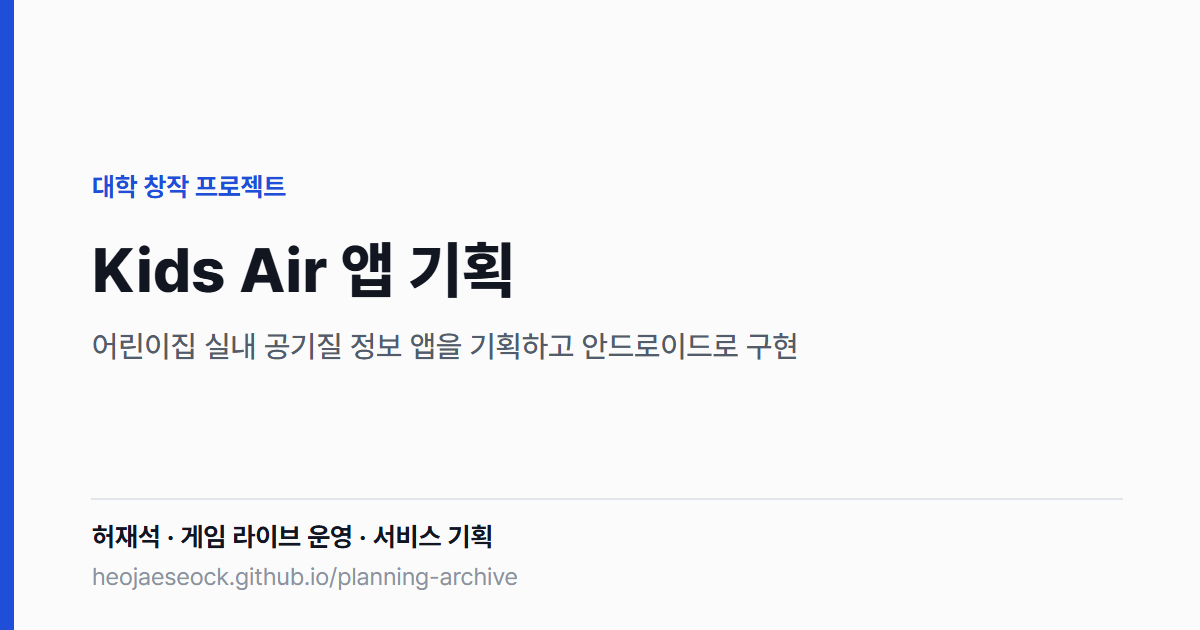
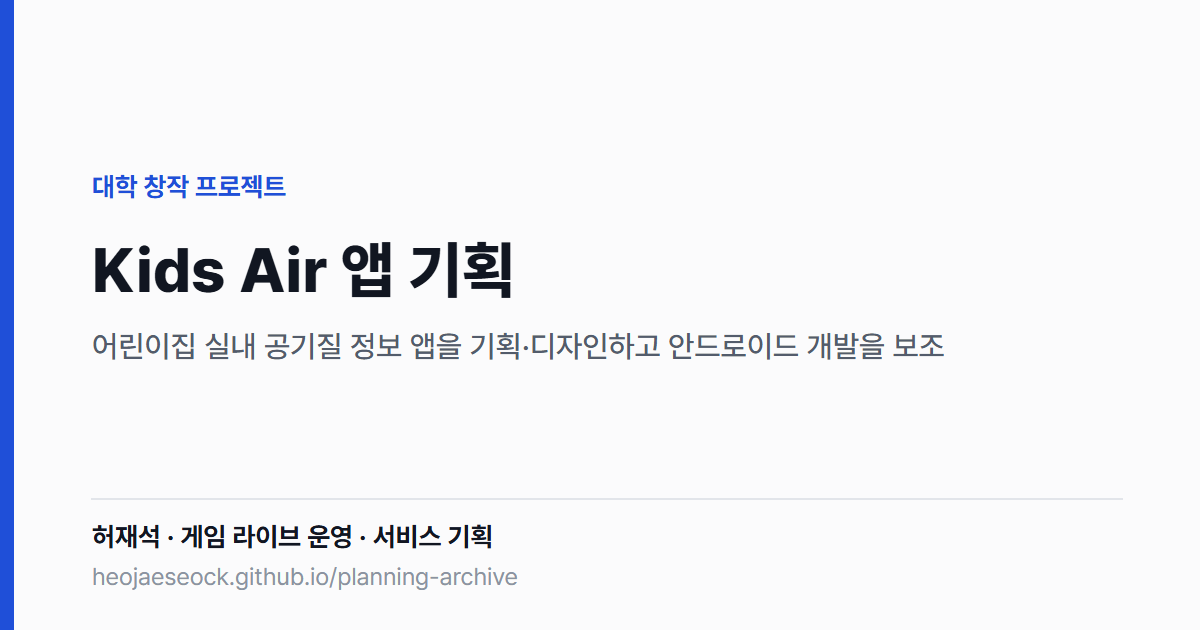
키즈 에어 담당 표기(기획·디자인, 안드로이드 개발 보조)와 공유 이미지, Project OQ 교차점 약 58시간으로 통일, 브롤스타즈 브롤러 수 71종으로 통일

Changed region(s): [[0.4317, 0.5127, 0.8017, 0.573]]

diff --git a/docs/service-plan/kids-air-app-design/index.html b/docs/service-plan/kids-air-app-design/index.html
@@ -8,12 +8,12 @@
 <link rel="icon" href="../../../favicon.svg" type="image/svg+xml">
 <link rel="icon" href="../../../favicon.png" sizes="32x32">
 <link rel="apple-touch-icon" href="../../../apple-touch-icon.png">
-    <meta name="description" content="Kids Air 앱 기획. 어린이집 실내 공기질 정보 앱을 기획하고 안드로이드로 구현.">
+    <meta name="description" content="Kids Air 앱 기획. 어린이집 실내 공기질 정보 앱을 기획·디자인하고 안드로이드 개발을 보조.">
 <meta property="og:type" content="article">
 <meta property="og:locale" content="ko_KR">
 <meta property="og:site_name" content="허재석 기획·운영 아카이브">
 <meta property="og:title" content="Kids Air 앱 기획">
-<meta property="og:description" content="Kids Air 앱 기획. 어린이집 실내 공기질 정보 앱을 기획하고 안드로이드로 구현.">
+<meta property="og:description" content="Kids Air 앱 기획. 어린이집 실내 공기질 정보 앱을 기획·디자인하고 안드로이드 개발을 보조.">
 <link rel="canonical" href="https://heojaeseock.github.io/planning-archive/docs/service-plan/kids-air-app-design/">
 <meta property="og:url" content="https://heojaeseock.github.io/planning-archive/docs/service-plan/kids-air-app-design/">
 <meta property="og:image" content="https://heojaeseock.github.io/planning-archive/docs/service-plan/kids-air-app-design/og.png">
@@ -252,7 +252,7 @@ html { scroll-behavior: smooth; }
                      어린이집의 공기 상태를 보호자가 바로 확인할&nbsp;수 있게 만든 앱입니다.
                 </p>
                 <div class="flex flex-wrap justify-center md:justify-start gap-4 mt-10 text-[11px] font-black text-slate-500">
-                    <span class="bg-white border border-slate-200 px-5 py-2.5 rounded-2xl shadow-sm tracking-wide">담당 역할: 서비스 기획 및&nbsp;디자인</span>
+                    <span class="bg-white border border-slate-200 px-5 py-2.5 rounded-2xl shadow-sm tracking-wide">담당 역할: 서비스 기획&#8288;·디자인, 개발 보조</span>
                     <span class="bg-white border border-slate-200 px-5 py-2.5 rounded-2xl shadow-sm tracking-wide">개발 환경: 안드로이드 네이티브</span>
                 </div>
             </div>
@@ -264,7 +264,7 @@ html { scroll-behavior: smooth; }
       <div class="bg-white rounded-2xl border border-slate-200 overflow-hidden shadow-sm">
         <div class="px-6 md:px-9 pt-7 md:pt-8 pb-6">
           <p class="text-[11px] font-black tracking-[0.12em] text-teal-700 mb-3">문서 소개</p>
-          <p class="text-base md:text-lg font-bold text-slate-700 leading-relaxed bal max-w-[40em]">어린이집 실내 공기질 정보 앱을 기획하고 안드로이드로 구현한 기록입니다.</p>
+          <p class="text-base md:text-lg font-bold text-slate-700 leading-relaxed bal max-w-[40em]">어린이집 실내 공기질 정보 앱을 기획&#8288;·디자인하고, 안드로이드 개발을 보조하며 출시까지 함께한 기록입니다.</p>
         </div>
         <div class="px-6 md:px-9 py-6 md:py-7">
           <p class="text-[11px] font-black tracking-[0.12em] text-slate-500 mb-4">먼저 확인할&nbsp;점</p>

diff --git a/index.html b/index.html
@@ -474,9 +474,9 @@
         <div class="tags"><span class="tag t-pm">사업&#8288;·서비스 기획</span></div>
       </a>
       <div class="ghead" data-cat="campus"><h2>대학 창작 프로젝트 <span class="cat-n" data-total="3">3건</span></h2><p>대학 재학&nbsp;중 직접 기획하고 만들어 완성한 앱과 보드게임입니다.</p></div>
-      <a class="card" data-cat="campus" data-jobs="pm" data-q="Kids Air 앱 기획 어린이집 실내 공기질 정보 앱을 기획하고 안드로이드로 구현" href="docs/service-plan/kids-air-app-design/index.html">
+      <a class="card" data-cat="campus" data-jobs="pm" data-q="Kids Air 앱 기획 어린이집 실내 공기질 정보 앱을 기획·디자인하고 안드로이드 개발을 보조" href="docs/service-plan/kids-air-app-design/index.html">
         <h3>Kids Air 앱 기획</h3>
-        <p>어린이집 실내 공기질 정보 앱을 기획하고 안드로이드로 구현</p>
+        <p>어린이집 실내 공기질 정보 앱을 기획·디자인하고 안드로이드 개발을 보조</p>
         <div class="tags"><span class="tag t-pm">사업&#8288;·서비스 기획</span></div>
       </a>
       <a class="card" data-cat="campus" data-jobs="gd,pm" data-q="Color Killer 보드게임 기획·제작 특수 카드 4종으로 역전 요소를 만든 창작 보드게임" href="docs/game-design/color-killer-boardgame/index.html">

diff --git a/docs/game-design/brawlstars-system-analysis/index.html b/docs/game-design/brawlstars-system-analysis/index.html
@@ -384,7 +384,7 @@ html { scroll-behavior: smooth; }
                 <div class="text-center max-w-2xl mx-auto mb-10">
                     <h2 class="text-2xl md:text-3xl font-black text-slate-900 mb-3 tracking-tight">브롤러 육성 및&nbsp;밸런스 체계 구조화</h2>
                     <p class="text-slate-500 text-base font-medium leading-relaxed">
-                    70종을 넘는 브롤러의 클래스 체계와 점진적 스펙업 로직, <br class="hidden md:block">
+                    71종 브롤러의 클래스 체계와 점진적 스펙업 로직, <br class="hidden md:block">
                     그리고 이를 달성하기 위한 누적 요구 재화 데이터를 수치화했습니다.
                 </p>
                 </div>

diff --git a/docs/game-design/project-oq-economy-balance/index.html b/docs/game-design/project-oq-economy-balance/index.html
@@ -364,7 +364,7 @@
                     </table>
                 </div>
                 <p class="text-xs text-slate-500 mt-4 leading-relaxed max-w-[46em]">
-                    <strong class="text-slate-700">기획 기준선:</strong> 7일&#8288;(56시간) 부근에서 시간 가치가 최저임금과 교차합니다. <br class="hidden md:block">
+                    <strong class="text-slate-700">기획 기준선:</strong> 약&nbsp;58시간&#8288;(하루 8시간씩 7일 남짓)에서 시간 가치가 최저임금과 교차합니다. <br class="hidden md:block">
                     성장 구간을 이&nbsp;안쪽으로 설계하면 &lsquo;시간을 쓰는 선택&rsquo;&#8288;이 손해가 되지 않습니다.
                 </p>
             </div>
